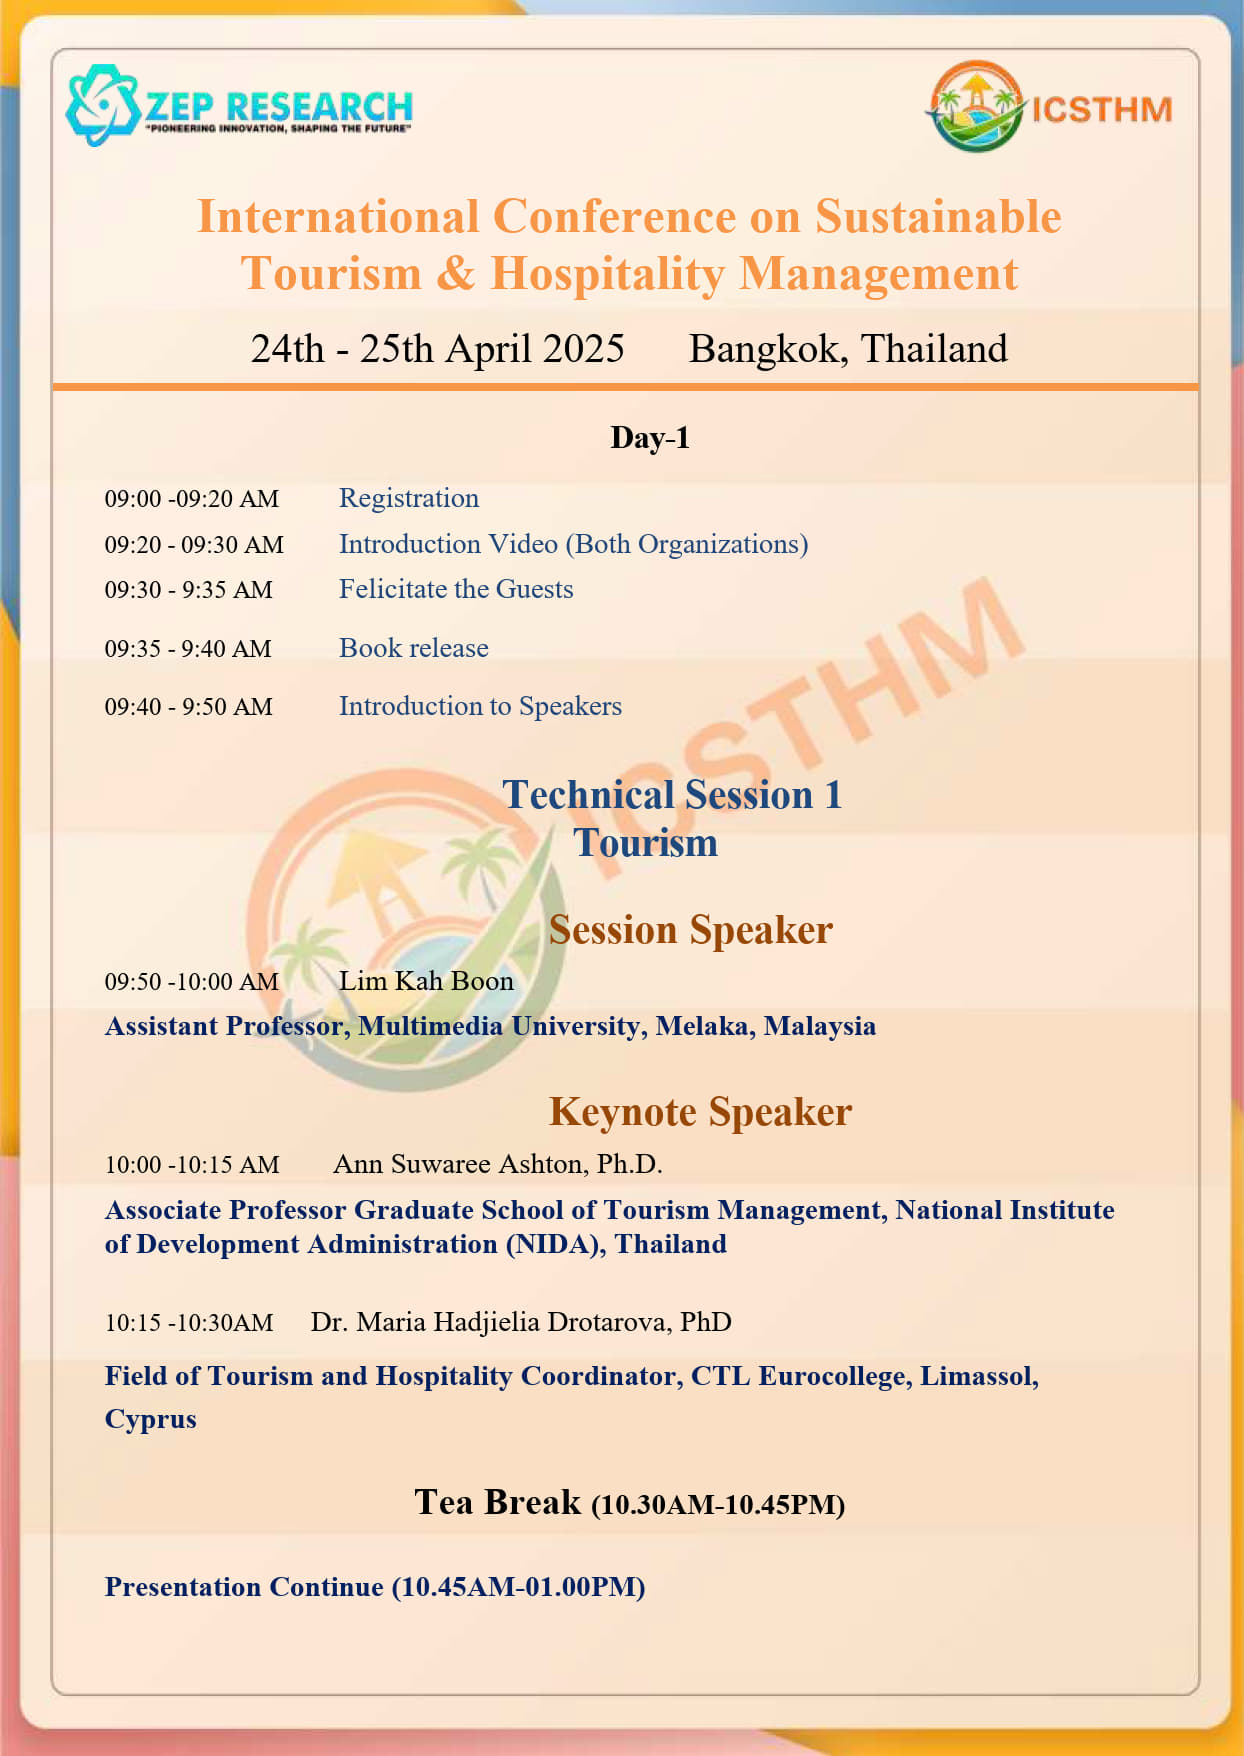
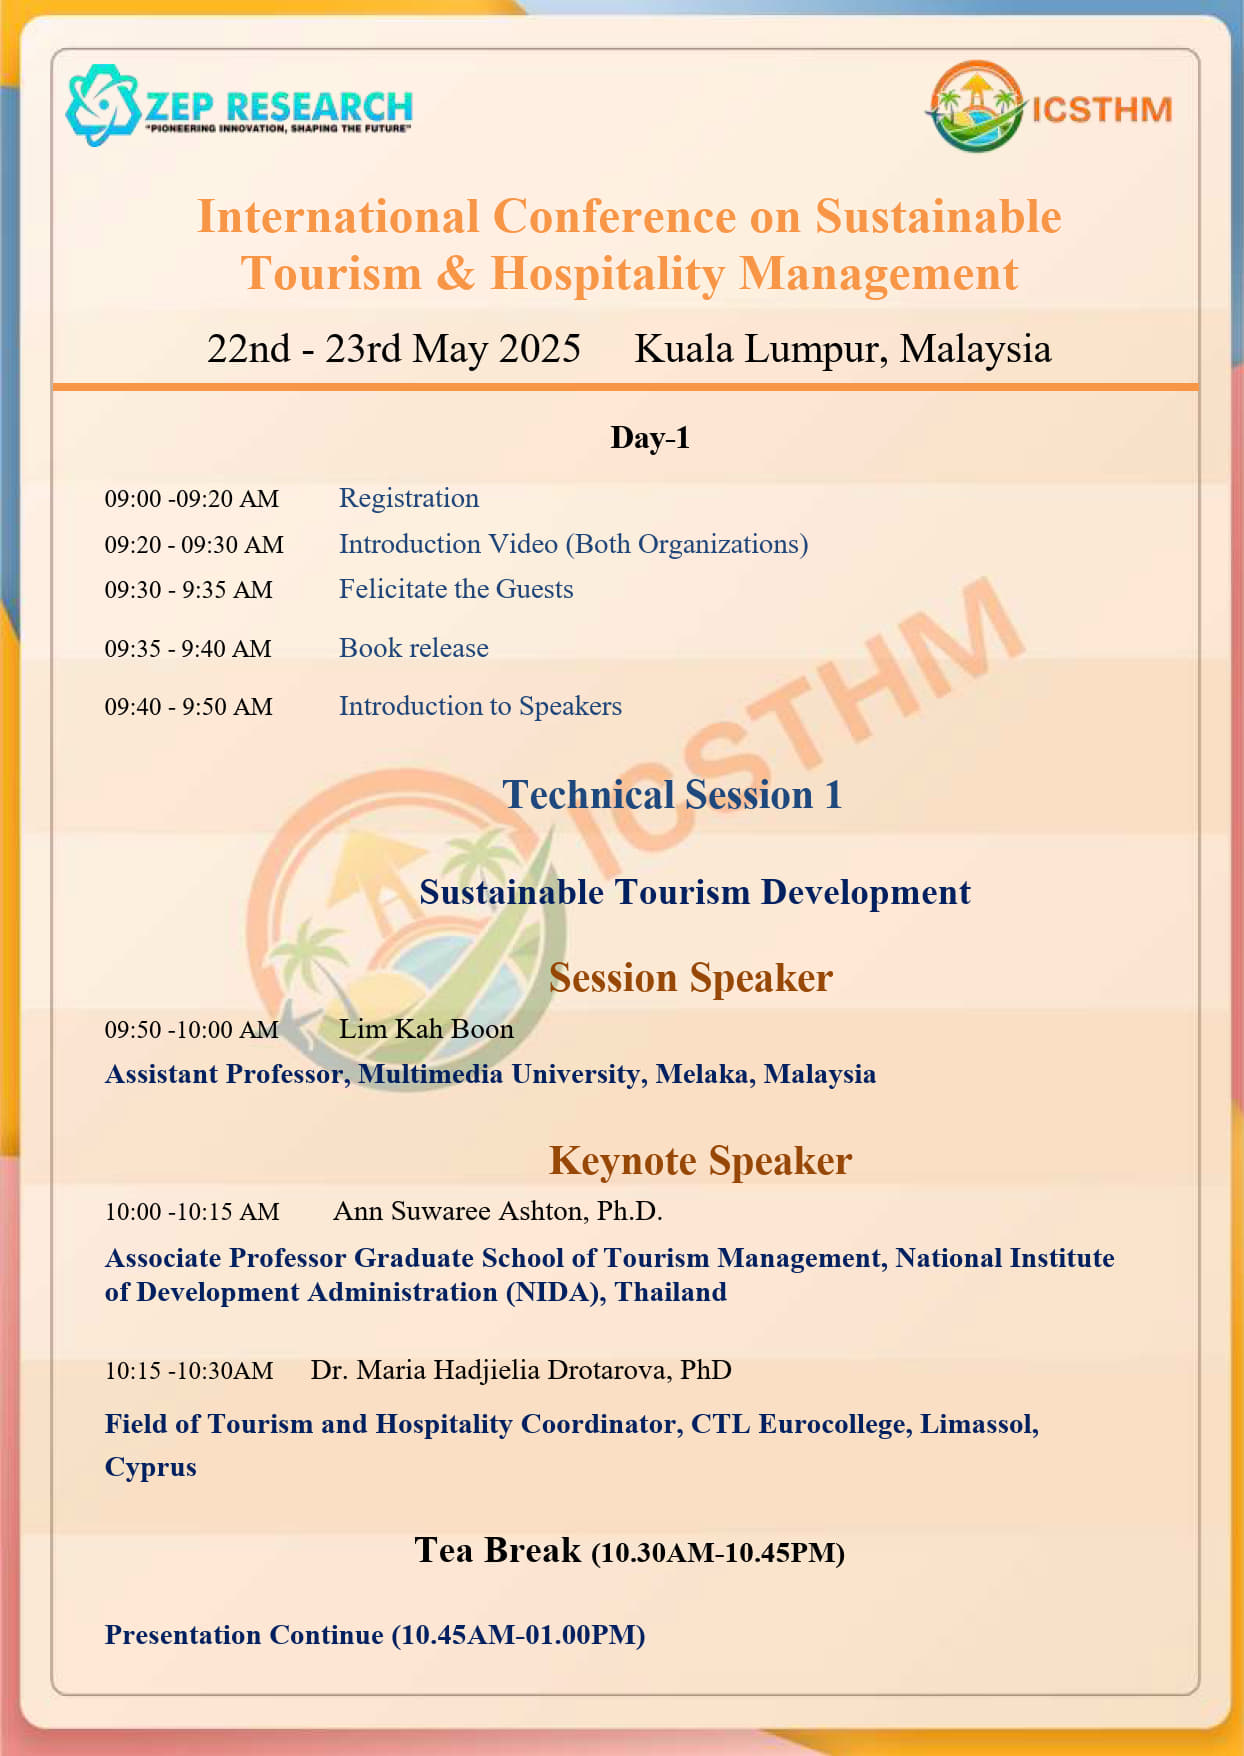
scedule date change with list

Changed region(s): [[0.0916, 0.4613, 0.8859, 0.9533], [0.1527, 0.1845, 0.8553, 0.2153]]

diff --git a/src/app/(pages)/schedule/Content.jsx b/src/app/(pages)/schedule/Content.jsx
@@ -9,19 +9,19 @@ import Image from "next/image"
 
 const scheduleData = [
   {
-    date: "April 24 | Day 1",
+    date: "May 22 | Day 1",
     imageUrl1: "/schedule/d1p1.jpg", // Path to your first image
     imageUrl2: "/schedule/d1p2.jpg" // Path to your second image
   },
-  // {
-  //   date: "April 25 | Day 2",
-  //   imageUrl1: "/schedule/d2p1.jpg", // Path to your first image
-  //   imageUrl2: "/schedule/d2p2.jpg", 
-  // }
+  {
+    date: "May 23 | Day 2",
+    imageUrl1: "/schedule/d2p1.jpg", // Path to your first image
+    imageUrl2: "/schedule/d2p2.jpg", 
+  }
 ]
 
 export default function ConferenceSchedule() {
-  const startDate = new Date(2025, 3, 24) // March 21, 2024
+  const startDate = new Date(2025, 4, 22) // March 21, 2024
   const [selectedDates, setSelectedDates] = useState([
     startDate,
     addDays(startDate, 1),
@@ -35,14 +35,14 @@ export default function ConferenceSchedule() {
           Shaping Tomorrow&apos;s Sustainable Landscape
           </h1>
           <h2 className="text-muted-foreground">
-          Join us April 24th-25th for three days of cutting-edge insights and networking. Reserve your spot today!
+          Join us May 22nd-23rd for three days of cutting-edge insights and networking. Reserve your spot today!
           </h2>
         </div>
 
         <div className="grid gap-8 md:grid-cols-[300px_1fr]">
           <Card className="border-primary">
             <CardHeader>
-              <CardTitle>April 2025</CardTitle>
+              <CardTitle>May 2025</CardTitle>
             </CardHeader>
             <CardContent>
               <Calendar
